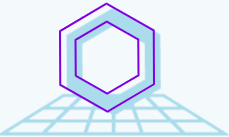
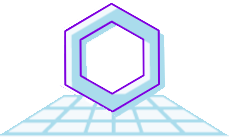
add navBar: fixed bugs

diff --git a/tech.html b/tech.html
@@ -27,7 +27,7 @@
         </div>
 
         <section class="up">
-            <img src="assets/tech.png" alt="" id="background">
+            <img src="assets/techno.png" alt="" id="background">
             <h1>My Skills</h1>
 
             <div class="content">

diff --git a/css/responsive.css b/css/responsive.css
@@ -247,7 +247,7 @@
 
 @media only screen and (min-width: 500px) {
     .top-bar.scroll{
-        background-color: rgb(255, 255, 255);
+        background-color: #ffffff;
         box-shadow: rgba(0, 0, 0, 0.35) 0px 5px 15px;
         z-index: 1;
     }

diff --git a/css/tech.css b/css/tech.css
@@ -5,7 +5,7 @@
 }
 
 body{
-    background-color: #822c8a18;
+    background-color: #9bdabe2a;
 }
 
 h1, h5, p, a{
